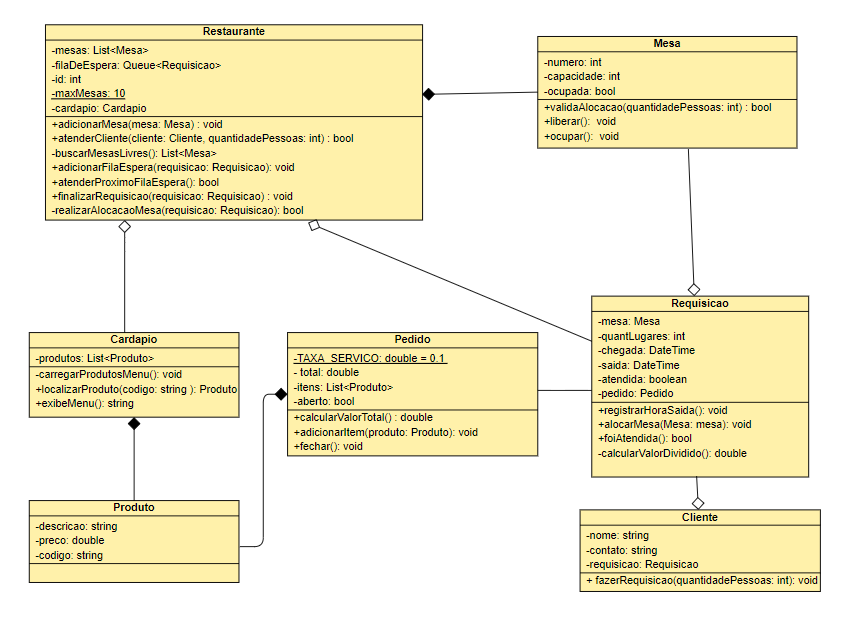
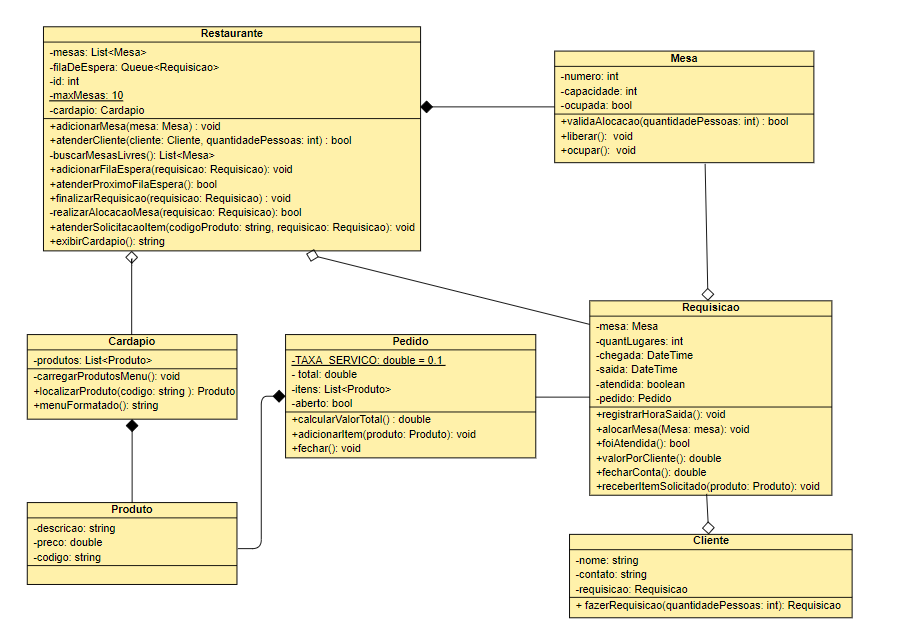
feat: improvements on the main process

Changed region(s): [[0.0307, 0.0303, 0.9823, 0.9697], [0.4298, 0.4242, 0.5218, 0.4545], [0.5218, 0.4545, 0.5832, 0.4848]]

diff --git a/codigo/RestauranteAtomo/Program.cs b/codigo/RestauranteAtomo/Program.cs
@@ -1,5 +1,4 @@
 using RestauranteAtomo.model;
-using System.ComponentModel;
 using System.Text;
 using System.Text.RegularExpressions;
 
@@ -77,7 +76,7 @@ namespace RestauranteAtomo
 
             if(atendido)
             {
-                Console.WriteLine("Dados da reserva atendida :");
+                Console.WriteLine("Reserva atendida ! :");
                 Console.WriteLine(cliente.ToString());
             }else{
                 restaurante.adicionarFilaEspera(cliente.Requisicao);
@@ -90,8 +89,8 @@ namespace RestauranteAtomo
         /// imediatamente após o cadastro de um cliente
         /// </summary>
         private static bool deveIniciarAtendimento(){
-            Console.WriteLine("Deseja iniciar o atendimento ? ");
-            string pattern = "sim|n[ã|a]o";
+            Console.WriteLine("Deseja iniciar o atendimento ? Responda sim ou nao ");
+            string pattern = "sim|nao";
             bool respostaValida;
             string resposta;
             do{
@@ -99,7 +98,7 @@ namespace RestauranteAtomo
                 if(Regex.Match(resposta, pattern).Success){
                     respostaValida = true;
                 }else{
-                    Console.WriteLine("Sua resposta deve ser \'sim\' ou \'não\'");  
+                    Console.WriteLine("Sua resposta deve ser \'sim\' ou \'nao\'");  
                     respostaValida = false;
                 }
             }while(!respostaValida);
@@ -131,13 +130,13 @@ namespace RestauranteAtomo
         /// <summary>
         /// Chama o método finalizarRequisição() da classe Rstaurante.
         /// </summary>
-        /// <param name="requisicao">Recebe uma requisição como parâmetro</param>
+        /// <param name="requisicao">Recebe um cliente como parametro, cuja requisição será finalizada</param>
         /// <returns></returns>
-        public static void finalizarRequisicao(Requisicao requisicao)
+        public static void finalizarRequisicao(Cliente cliente)
         {
-            restaurante.finalizarRequisicao(requisicao);
+            restaurante.finalizarRequisicao(cliente.Requisicao);
             Console.WriteLine("A seguinte requisição foi encerrada: ");
-            Console.WriteLine(requisicao);
+            Console.WriteLine(cliente.ToString());
 
             bool requisicaoAtendida = restaurante.atenderProximoFilaEspera();
             if(requisicaoAtendida)
@@ -185,6 +184,7 @@ namespace RestauranteAtomo
 
         static void Main(string[] args)
         {
+            Console.Clear();
             int opcao;
             do
             {
@@ -201,7 +201,7 @@ namespace RestauranteAtomo
                             clientes.Add(novoCliente);
                             Console.WriteLine(novoCliente);
 
-                            if(deveIniciarAtendimento())
+                            if(restaurante.Mesas.Count > 0 && deveIniciarAtendimento())
                                 iniciarAtendimento(novoCliente);
                         }else{ 
                             Console.WriteLine("Cliente não registrado. Informações não preenchidas corretamente:");
@@ -227,13 +227,16 @@ namespace RestauranteAtomo
                         adicionarMesa();
                         foreach(Mesa mesa in restaurante.Mesas)
                         {
-                            Console.WriteLine(mesa);
+                            Console.WriteLine("\nMesa " + mesa.Numero + ": capacidade para " + mesa.Capacidade + " pessoas.");
                         }
+                        espera();
                         break;
                     case 4:
                         Cliente cliente = iniciarBuscaCliente();
-                        if (cliente != null) finalizarRequisicao(cliente.Requisicao);
-                        else Console.WriteLine("Cliente não encontrado. Favor tentar novamente! \n");
+                        if (cliente != null && cliente.Requisicao != null && cliente.Requisicao.foiAtendida()) 
+                            finalizarRequisicao(cliente);
+                        else Console.WriteLine("Cliente não encontrado ou o cliente não possui requisição ativa. Favor tentar novamente! \n");
+                        espera();
                         break;
                     case 0:
                         break;
@@ -241,6 +244,7 @@ namespace RestauranteAtomo
                         Console.WriteLine("Opção inválida!\n");
                         break;
                 }
+                Console.Clear();
             } while (opcao != 0);
         }
     }

diff --git a/codigo/RestauranteAtomo/model/Restaurante.cs b/codigo/RestauranteAtomo/model/Restaurante.cs
@@ -16,7 +16,6 @@ namespace RestauranteAtomo.model
         private Queue<Requisicao> _filaDeEspera;
         private int _id;
 
-
         /// <summary>
         /// Construtor da classe restaurante
         /// </summary>
@@ -27,6 +26,7 @@ namespace RestauranteAtomo.model
             _mesas = new List<Mesa>();
             _filaDeEspera = new Queue<Requisicao>();
         }
+
         internal List<Mesa> Mesas { get => _mesas;}
         
         #endregion /* Fim Atributos */;
@@ -89,8 +89,8 @@ namespace RestauranteAtomo.model
         /// <param name="quantPessoas">Quantidade de pessoas na mesa</param>
         public bool atenderCliente(Cliente cliente, int quantPessoas) 
         {
-            cliente.fazerRequisicao(quantPessoas);
-            return realizarAlocacaoMesa(cliente.Requisicao);
+            Requisicao requisicao = cliente.fazerRequisicao(quantPessoas);
+            return realizarAlocacaoMesa(requisicao);
             
         }
         /// <summary>
@@ -106,14 +106,18 @@ namespace RestauranteAtomo.model
         /// </summary>
         public bool atenderProximoFilaEspera() 
         { 
-            Requisicao atenderFila = _filaDeEspera.Peek();
-            bool atendida = realizarAlocacaoMesa(atenderFila);
-            if (atendida)
+            bool retiradaFilaEspera = false;
+            if(_filaDeEspera.Count > 0)
             {
-                 _filaDeEspera.Dequeue();
-                return true;
+                Requisicao atenderFila = _filaDeEspera.Peek();
+                bool atendida = realizarAlocacaoMesa(atenderFila);
+                if (atendida)
+                {
+                    _filaDeEspera.Dequeue();
+                    retiradaFilaEspera = true;
+                }
             }
-            return false;
+            return retiradaFilaEspera;
         }
         /// <summary>
         /// Metodo para finalizar a requisicao do cliente

diff --git a/codigo/RestauranteAtomo/model/Cliente.cs b/codigo/RestauranteAtomo/model/Cliente.cs
@@ -40,13 +40,14 @@ namespace RestauranteAtomo.model
     /// especificada
     /// </summary>
     /// <param name="quantidadePessoas"></param>
-    public void fazerRequisicao(int quantidadePessoas)
+    public Requisicao fazerRequisicao(int quantidadePessoas)
     {
       requisicao = new Requisicao(quantidadePessoas);
+      return requisicao;
     }    
     
-    public override string ToString(){
-      return "Nome: " + this.nome + "; Contato: " + this.contato + "; " + (requisicao != null ? requisicao.ToString() : "Sem reserva pendente");
+    public override string ToString(){  
+      return "Nome: " + this.nome + "; Contato: " + this.contato + "; " + (requisicao != null ? requisicao.ToString() + ": " : "Sem reserva pendente");
     }
     #endregion
   }
